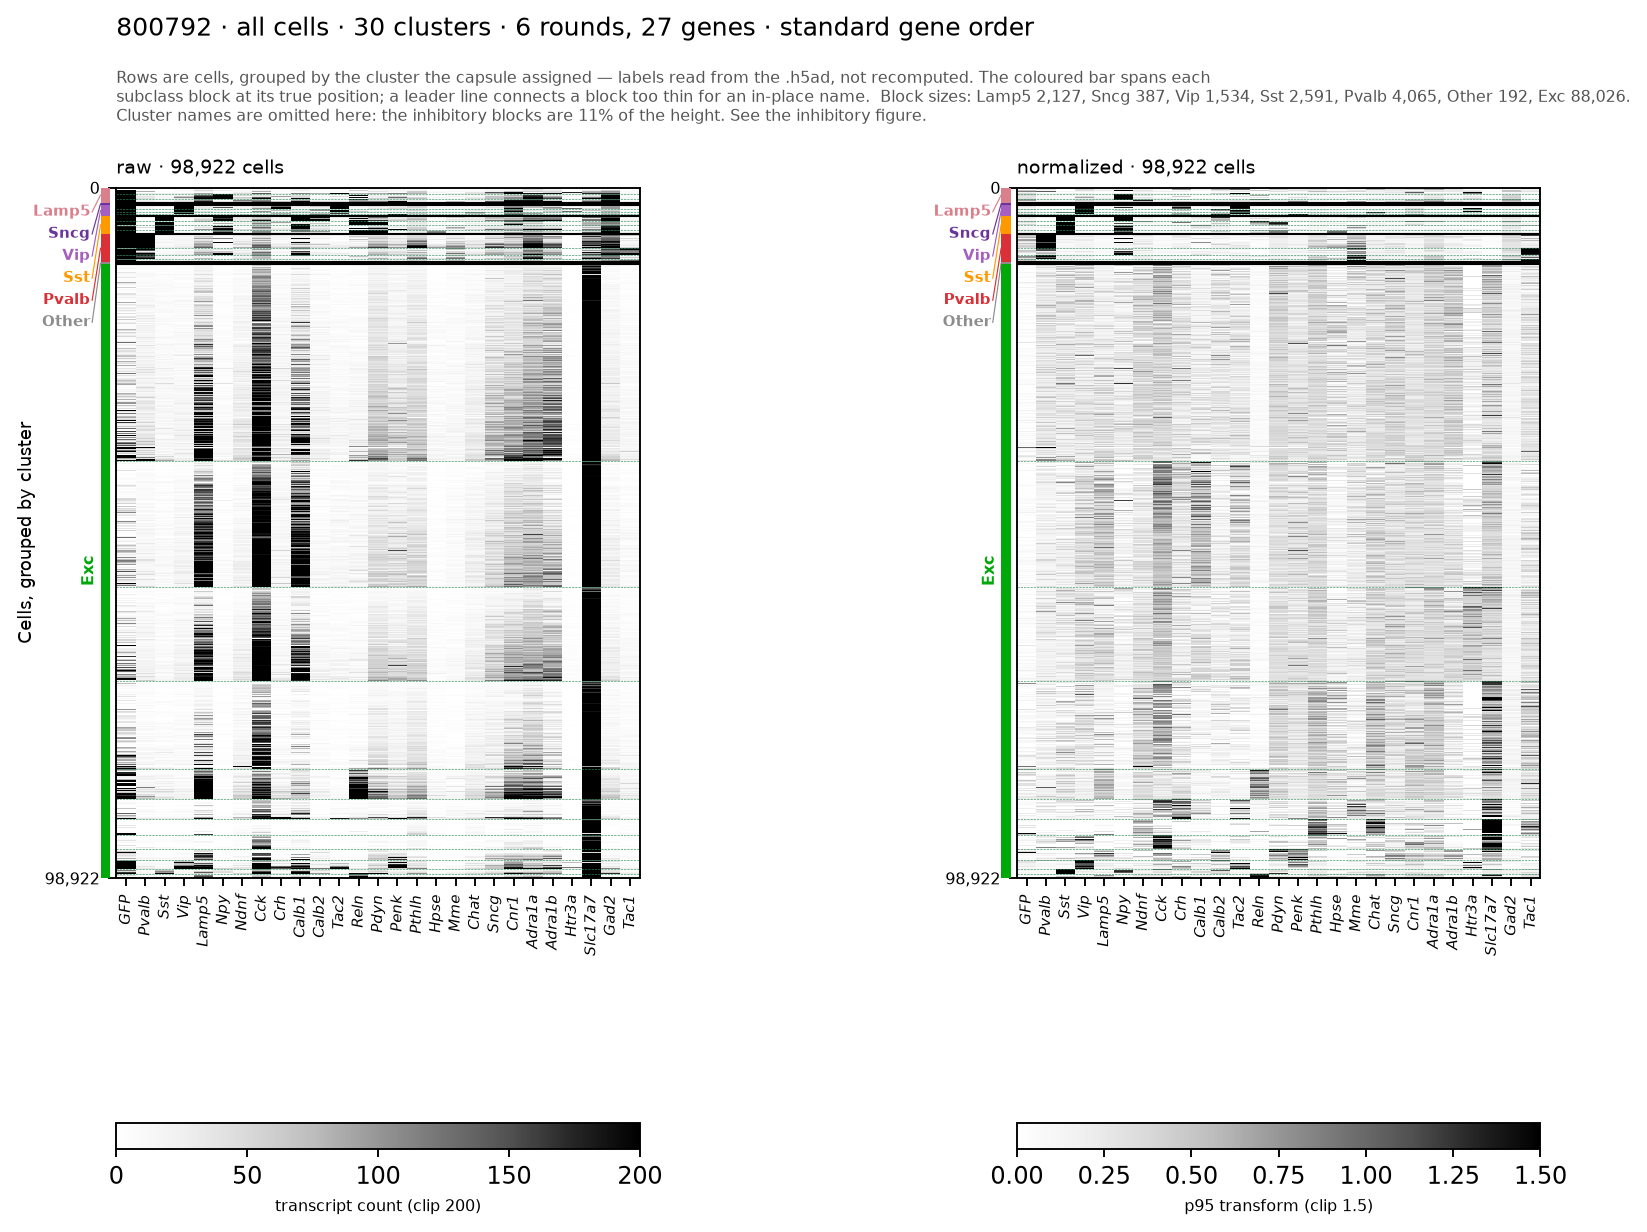
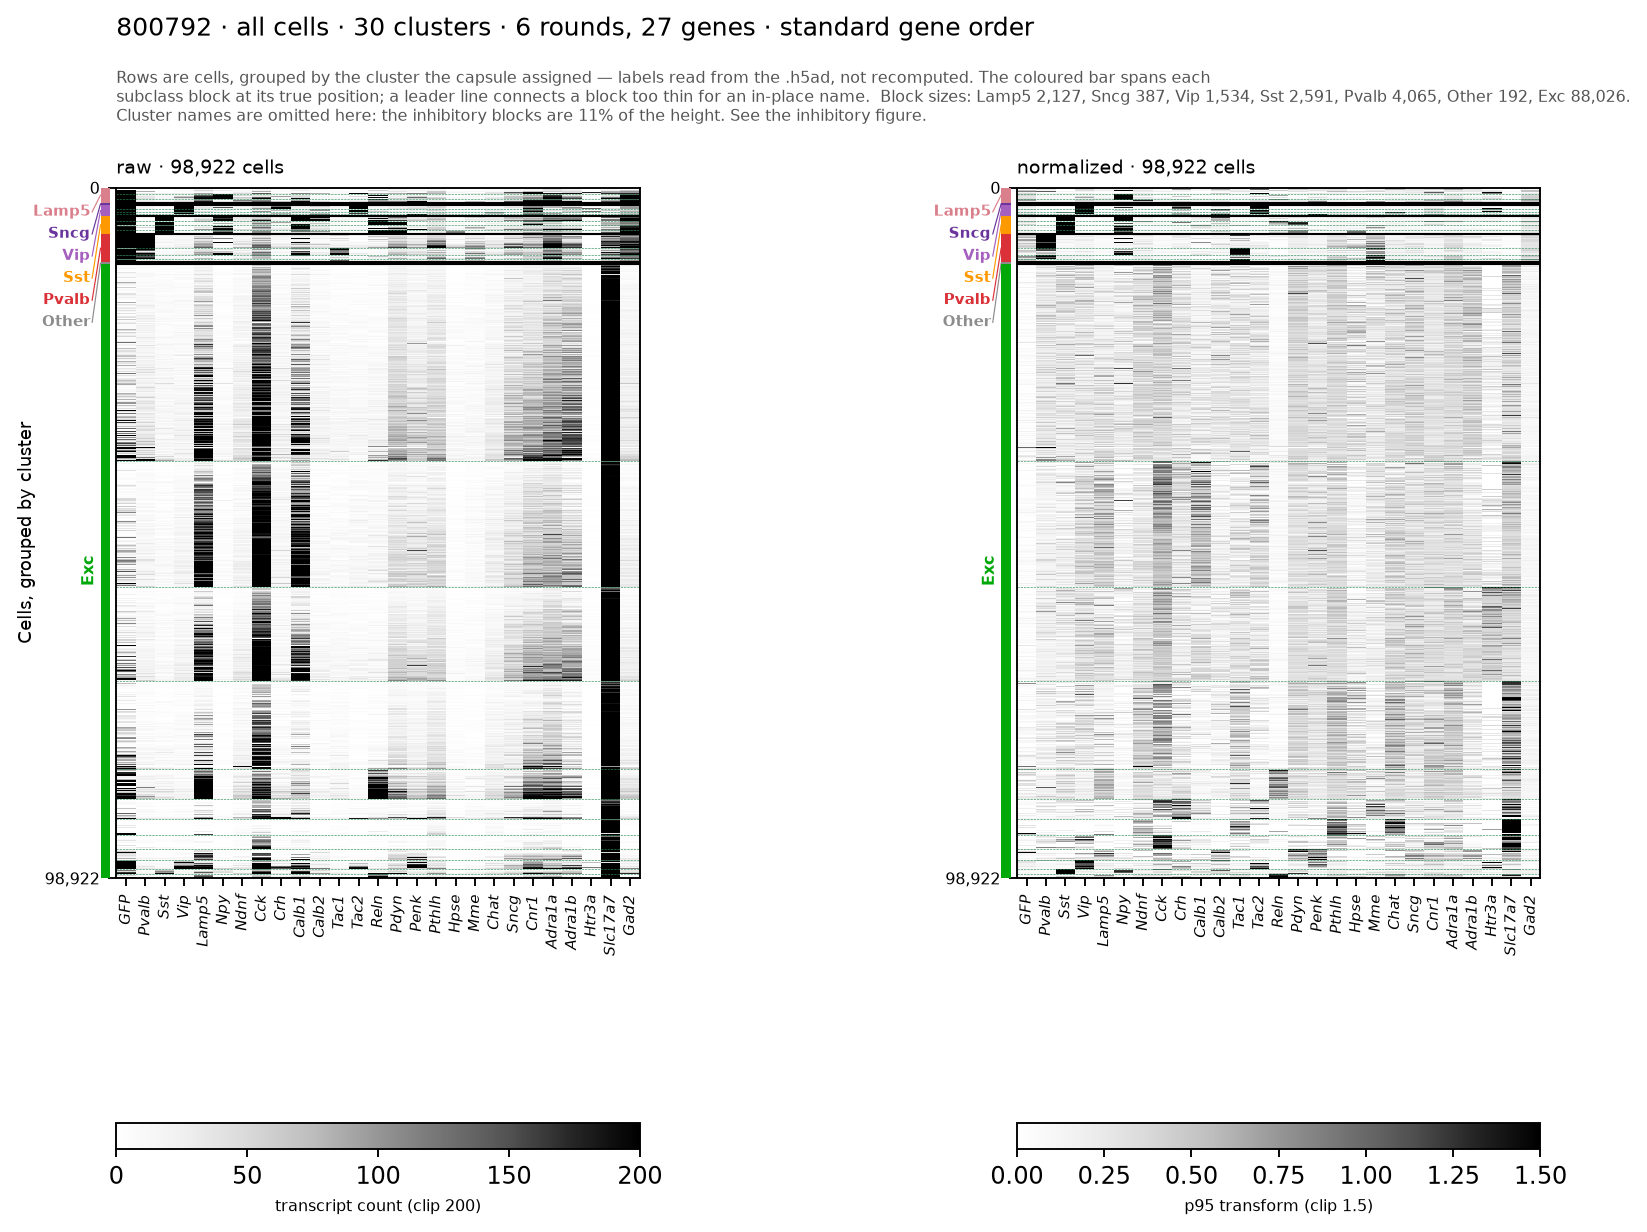
Sort Tac1 into its standard position instead of the tail
STD_GENE_ORDER always listed Tac1 between Calb2 and Tac2, but the matcher compared
that entry against the panel's old 'Tac'. Once the name was corrected upstream the
comparison stopped matching, so Tac1 was never placed by the ordered pass and fell
through to the trailing unordered genes -- after Gad2 on every standard-order
figure. The matcher now resolves var's gene through the same alias map the table is
corrected with, so a var built either side of that correction sorts identically.

Changed region(s): [[0.7432, 0.1542, 0.9599, 0.7711], [0.1858, 0.1542, 0.4026, 0.7711]]

diff --git a/code/aind_hcr_pairwise_unmixing_calibrated/plots.py b/code/aind_hcr_pairwise_unmixing_calibrated/plots.py
@@ -54,18 +54,18 @@ def gene_order(var, kind="std"):
     """Column order for the heatmap: 'std' biology-grouped, or 'rc' acquisition order.
 
     `var` is `adata.var`, carrying a `gene` column alongside the round-channel-gene
-    column names. Tac is matched to Tac1 -- the panel labels it Tac while the standard
-    order uses the Tac1 synonym.
+    column names. Wrong panel names are resolved through the same alias map the cell x
+    gene table is corrected with, so a `var` built before that correction still orders
+    `Tac` under `Tac1`, in position, rather than falling through to the tail.
     """
     if kind == "rc":
         # sorted() on the tuple key, not np.argsort -- argsort on a list of tuples builds
         # a 2-D array and then fails on multi-dimensional index selection.
         return sorted(var.index, key=_rc_key)
-    out = []
-    for want in STD_GENE_ORDER:
-        for col in var.index:
-            if var.loc[col, "gene"] == ("Tac" if want == "Tac1" else want):
-                out.append(col)
+    from .annotate import GENE_ALIASES
+    genes = {col: GENE_ALIASES.get(var.loc[col, "gene"], var.loc[col, "gene"])
+             for col in var.index}
+    out = [col for want in STD_GENE_ORDER for col in var.index if genes[col] == want]
     return out + [c for c in var.index if c not in out]
 
 

diff --git a/tests/test_core.py b/tests/test_core.py
@@ -1733,3 +1733,23 @@ def test_duplicate_check_fails_closed():
     assert rra.asset_exists(name, "t", "d") is True
     rra._api = lambda *a, **k: {"results": [{"name": name + "_v2"}], "has_more": False}
     assert rra.asset_exists(name, "t", "d") is False
+
+
+def test_tac1_sorts_into_its_standard_position_not_the_tail():
+    """The order list always said Tac1; the matcher compared it against the panel's
+    old `Tac`, so once the name was corrected upstream nothing matched and Tac1 fell
+    through to the trailing unordered genes, after Gad2."""
+    pytest.importorskip("anndata")
+    from aind_hcr_pairwise_unmixing_calibrated import annotate as A, plots as P
+
+    adata = A.build_anndata(_fake_table(), n_inh=4, n_exc=3)
+    adata.var.loc[adata.var.index[0], "gene"] = "Tac1"
+    adata.var.loc[adata.var.index[1], "gene"] = "Tac2"
+    order = [adata.var.loc[c, "gene"] for c in P.gene_order(adata.var, "std")]
+    assert order.index("Tac1") == order.index("Tac2") - 1
+    assert order[-1] != "Tac1"
+
+    # a var built before the correction must land in the same place
+    adata.var.loc[adata.var.index[0], "gene"] = "Tac"
+    legacy = [adata.var.loc[c, "gene"] for c in P.gene_order(adata.var, "std")]
+    assert legacy.index("Tac") == legacy.index("Tac2") - 1

diff --git a/code/aind_hcr_pairwise_unmixing_calibrated/__init__.py b/code/aind_hcr_pairwise_unmixing_calibrated/__init__.py
@@ -27,4 +27,4 @@ from .control import control_matrix, load_powers, powers_from_acquisition  # noq
 from .fgbg import attach_fg_bg, bg_mad_threshold  # noqa: F401
 from .pipeline import run_mouse, run_round  # noqa: F401
 
-__version__ = "0.2.2"
+__version__ = "0.2.3"
